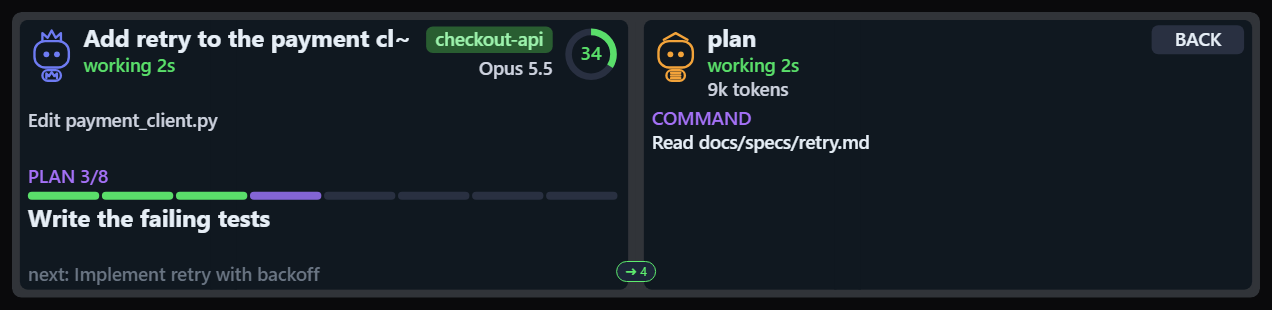
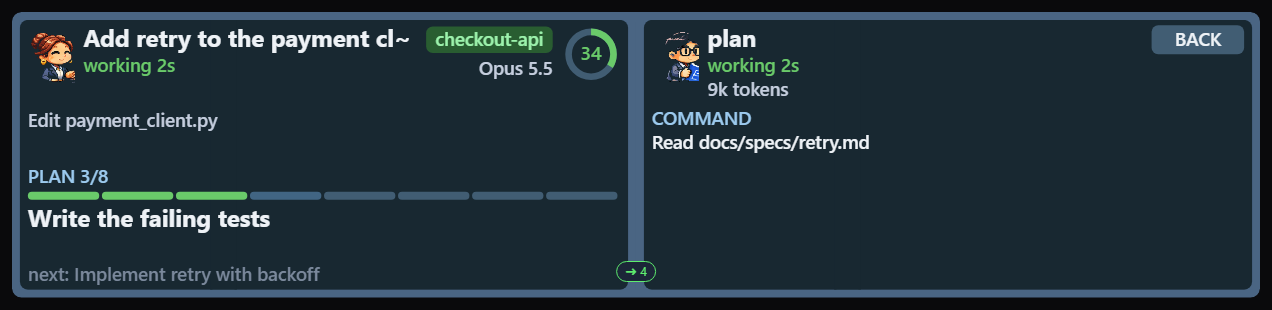
Docs: README screenshots and tour GIF in the office theme

Changed region(s): [[0.0, 0.029, 1.0, 0.9871]]

diff --git a/CLAUDE.md b/CLAUDE.md
@@ -46,5 +46,5 @@ The page redraws the device screen as vectors: `web/screen.js` is a port of the 
 - Windows: `process.exit` right after spawning the detached hub crashes Node (libuv assertion): hooks set `process.exitCode`.
 - A shell here-document or `sed` turns `\n` in a replacement into a real newline: edit code with an editor tool or a Python script file.
 - `sleep` of more than a few seconds is blocked in the shell tool: wait with a loop on a condition.
-- README screenshots are the real page: `plugin/hub/tools/page_screenshots.mjs` (demo hub from `demo_seed.mjs`, built-in `line` theme (variants and looks, no network; marketplace themes through `DEMO_THEMES`), 4 tiles per page, needs Edge or Chrome). `page_gif.mjs` records the guided tour GIF at the top of the README (live events and clicks, frames assembled by `frames_to_gif.py`, needs Python with Pillow). `screenshots.mjs` draws the device screen scenes only (30 s per scene).
+- README screenshots are the real page: `plugin/hub/tools/page_screenshots.mjs` (demo hub from `demo_seed.mjs`, marketplace theme `office` (needs network; `DEMO_THEMES=<name>` picks another, `DEMO_THEMES=` the built-in `line`), 4 tiles per page, needs Edge or Chrome). `page_gif.mjs` records the guided tour GIF at the top of the README (live events and clicks, frames assembled by `frames_to_gif.py`, needs Python with Pillow). `screenshots.mjs` draws the device screen scenes only (30 s per scene).
 - Work PC (Windows 10 Enterprise, Fortinet VPN, Dell dock); prefer a personal PC to install new tools.
